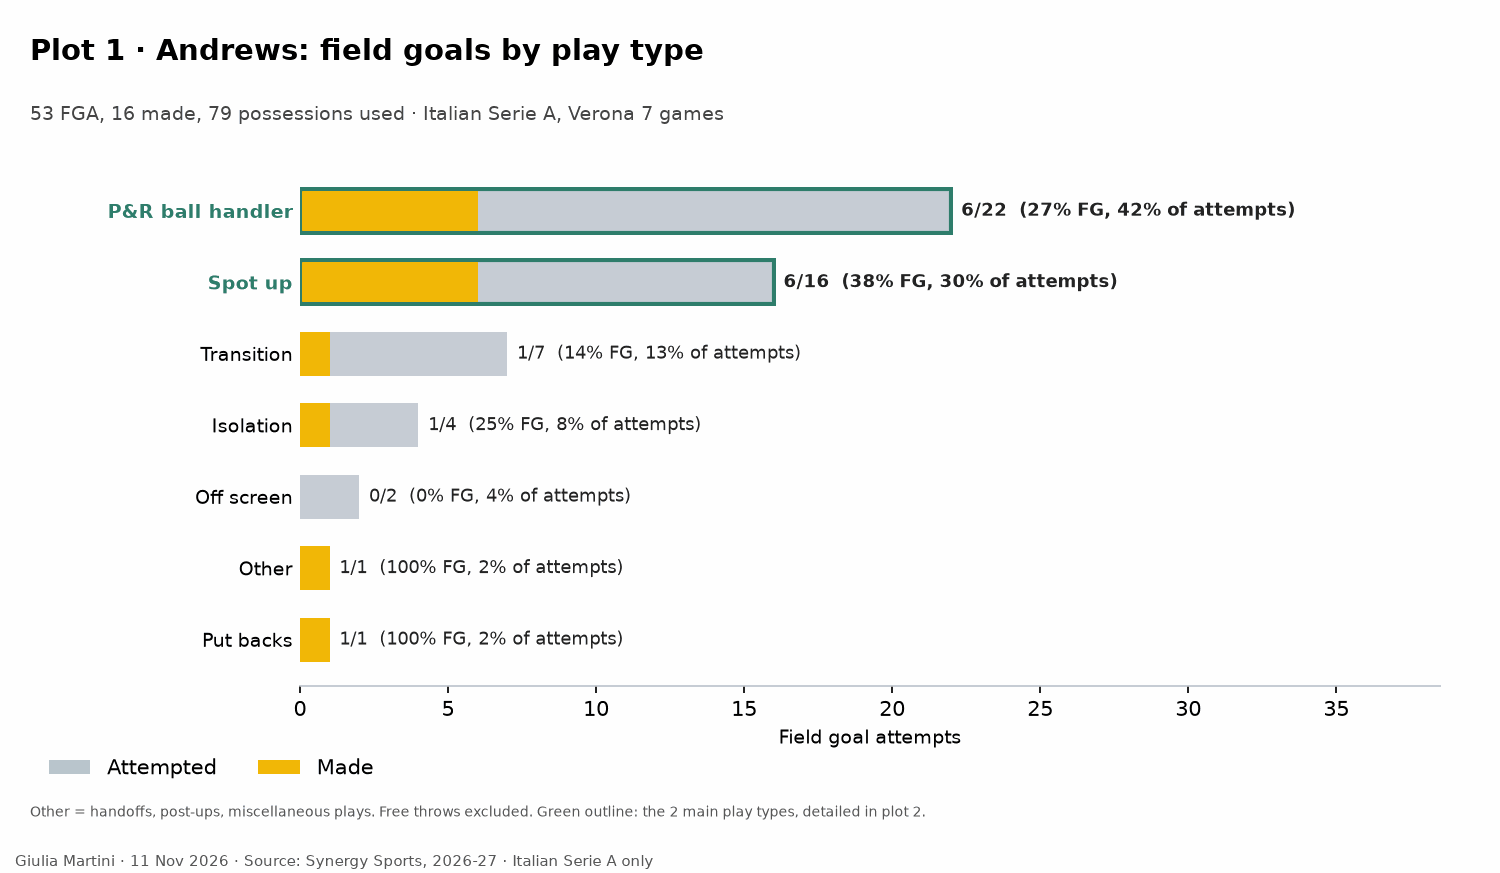
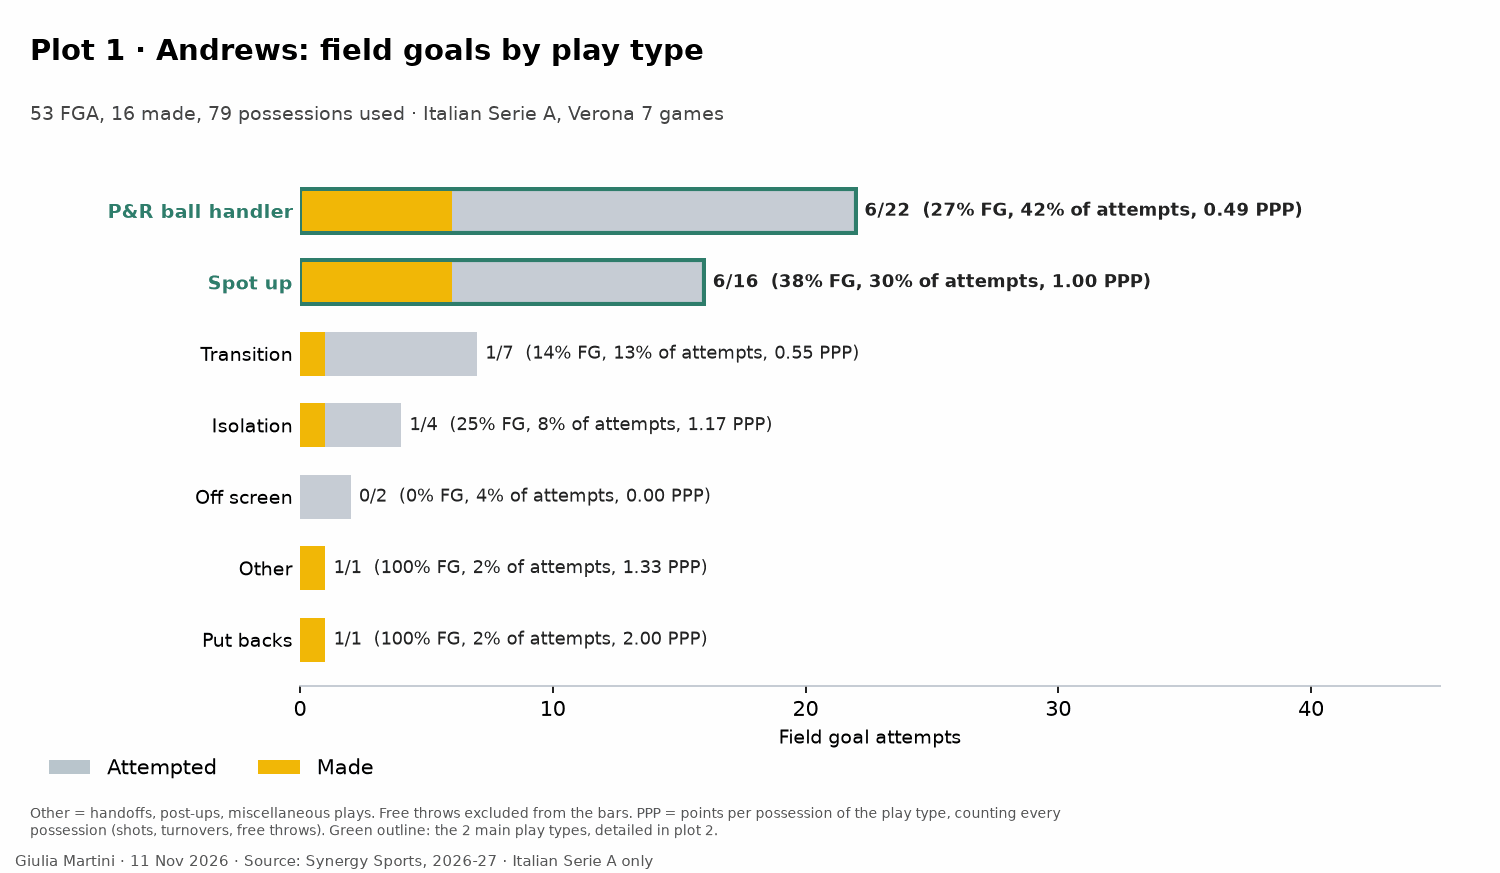
Verona: PPP in the plot 1 labels, energy indices section, methodology for energy indices
- Plot 1 labels end with the points per possession of the play type
- Verona individual tendencies: new Energy section (15_energy_indices.png, rim activity and high pace) with a link to the methodology
- Methodology: new section on the energy indices with dummy-data figures

diff --git a/notebooks/methodology_figures.py b/notebooks/methodology_figures.py
@@ -6,6 +6,8 @@ Writes into weekly/assets/methodology/ (copied to docs/assets by build_site.py):
   triangle_dummy.png     how to read the shot-selection triangles (tendency_triangles.py)
   playtype_dummy.png     how to read plot 1, field goals by play type (synergy_scouting_plots.py, 05_player_*)
   shottype_dummy.png     how to read plot 2, shot types within the main play types (05c_player_*)
+  energy_dummy.png       how to read the energy indices (energy_indices.py)
+  energy_build_dummy.png how a score is built from its components and shrunk by minutes
 """
 from __future__ import annotations
 
@@ -18,6 +20,7 @@ import numpy as np
 import pandas as pd
 
 import synergy_scouting_plots as ssp
+import energy_indices as ei
 import tendency_triangles as tt
 
 plt.rcdefaults()   # lba_style (imported by tendency_triangles) changes the global style: back to the defaults used by the scouting plots
@@ -28,7 +31,7 @@ DUMMY_NOTE = "Invented numbers, only to explain how to read the figure."
 NOTE_KW = dict(fontsize=8, color=ssp.INK_4)
 
 # Dummy player: attempts and makes by play type, and by shot type inside the two main play types
-PLAYTYPES = [("Spot up", 36, 14), ("Pick and roll ball handler", 22, 10), ("Transition", 12, 8), ("Cut", 8, 6), ("Isolation", 5, 2)]
+PLAYTYPES = [("Spot up", 36, 14, .92), ("Pick and roll ball handler", 22, 10, 1.04), ("Transition", 12, 8, 1.31), ("Cut", 8, 6, 1.5), ("Isolation", 5, 2, .78)]
 SHOT_TYPES = {"Spot up": [("Open, 3PT", 18, 8), ("Guarded, 3PT", 10, 2), ("To basket", 8, 4)],
               "Pick and roll ball handler": [("Dribble jumper, 3PT", 9, 3), ("To basket", 8, 5), ("Pull-up, mid-range", 5, 2)]}
 
@@ -65,13 +68,14 @@ def triangle(out: Path) -> None:
 def playtype(out: Path) -> None:
     """Plot 1 with invented numbers and callouts."""
     fig = plt.figure(figsize=(10, 5.2))
-    ax = fig.add_axes([.24, .2, .5, .6])
+    ax = fig.add_axes([.24, .17, .5, .6])
     ssp.draw_playtype_bars(ax, PLAYTYPES, zoom=2)
     fig.text(.02, .94, "Plot 1 · Player X: field goals by play type", fontsize=14, fontweight="bold")
     fig.text(.02, .89, "Dummy player, 83 field-goal attempts", fontsize=9, color=ssp.INK_3)
-    notes = [(.79, .73, "Pale bar = attempts,\nsolid yellow = made"),
-             (.79, .56, "Label: made/attempted, FG%\nand share of the player's\nattempts"),
-             (.79, .36, "Green outline and label: the two\nplay types with most attempts,\nzoomed in plot 2")]
+    notes = [(.79, .74, "Pale bar = attempts,\nsolid yellow = made"),
+             (.79, .60, "Label: made/attempted, FG%\nand share of the player's\nattempts"),
+             (.79, .46, "Diamond (top axis): points per\npossession of the play type,\ndotted line = 1.00"),
+             (.79, .30,"Green outline and label: the two\nplay types with most attempts,\nzoomed in plot 2")]
     for x, y, t in notes:
         fig.text(x, y, t, fontsize=8.5, color=ssp.INK_2, va="center", bbox=dict(boxstyle="round,pad=.4", fc="#F7F7F7", ec="#DDDDDD"))
     fig.text(.02, .04, DUMMY_NOTE + " Rows are sorted by attempts. Free throws are excluded.", **NOTE_KW)
@@ -92,10 +96,46 @@ def shottype(out: Path) -> None:
     fig.savefig(out / "shottype_dummy.png", dpi=150); plt.close(fig)
 
 
+def energy(out: Path) -> None:
+    """The real energy-index figure with invented players."""
+    pl = pd.DataFrame({"player_surname": ["Alpha", "Bravo", "Charlie", "Delta", "Echo", "Foxtrot", "Golf", "Hotel", "India", "Juliet"],
+                       "minutes": [210, 190, 150, 120, 90, 60, 40, 20, 15, 10],
+                       "rim_activity_pct": [.15, .92, .55, .30, .80, .62, .45, .70, .52, .38], "high_pace_pct": [.85, .35, .97, .10, .70, .50, .25, .55, .48, .60]})
+    ei.energy_figure("Dummy team", pl, "dummy", 7, "invented data", note="Invented numbers, only to explain how to read the figure.",
+                     out=out, filename="energy_dummy.png")
+
+
+def energy_build(out: Path) -> None:
+    """How one high-pace score is built (average of z-scores) and how minutes shrink it towards 0."""
+    comps = ["Drive\nfinishes", "Fast-break\nshots, assists", "Fouls\ndrawn", "Steals", "Early shots\n(within 8 s)"]
+    z = np.array([2.1, 1.4, 0.6, -0.3, 1.9])
+    fig, (a, b) = plt.subplots(1, 2, figsize=(11, 4.8), gridspec_kw={"width_ratios": [1.1, 1]})
+    fig.subplots_adjust(left=.12, right=.97, top=.82, bottom=.22, wspace=.35)
+    a.bar(range(len(z)), z, color=ei.MADE, alpha=.8)
+    a.axhline(0, color=ssp.INK_6, lw=.8); a.axhline(z.mean(), color=ei.MISS, lw=1.6, ls="--")
+    a.text(len(z) - .5, z.mean() + .08, f"average = raw score {z.mean():.2f}", ha="right", fontsize=8.5, color=ei.MISS, fontweight="bold")
+    a.set_xticks(range(len(z))); a.set_xticklabels(comps, fontsize=7.5)
+    a.set_ylabel("z-score vs league players (0 = league average)", fontsize=8.5)
+    a.set_title("1. Each component is a z-score; the score is their average", fontsize=10, loc="left")
+    m = np.linspace(0, 600, 300)
+    b.plot(m, m / (m + ei.K_MIN), color=ssp.INK_2, lw=2)
+    for (minutes, name), dx, dy in zip(((20, "20'"), (120, "120'"), (400, "400'")), (80, 70, 20), (-.08, -.15, -.25)):
+        f = minutes / (minutes + ei.K_MIN)
+        b.scatter([minutes], [f], color=ei.MISS, zorder=3)
+        b.annotate(f"{name}: x {f:.2f}\nraw 1.00 -> {f:.2f}", (minutes, f), (minutes + dx, f + dy), fontsize=8, arrowprops=dict(arrowstyle="-", color=ssp.INK_6))
+    b.set_xlabel("minutes played", fontsize=9); b.set_ylabel("weight kept: minutes / (minutes + 120)", fontsize=8.5)
+    b.set_ylim(0, 1.05); b.set_title("2. Few minutes: the score is pulled towards 0", fontsize=10, loc="left")
+    b.grid(color="#e5e7eb", lw=.6)
+    fig.text(.02, .95, "High pace: from components to the score of a player", fontsize=13, fontweight="bold")
+    fig.text(.02, .905, "Rim activity is built the same way (offensive rebounds, blocks, dunks, fouls drawn per 40 minutes).", fontsize=9, color=ssp.INK_3)
+    fig.text(.02, .03, DUMMY_NOTE + " The shrunk score is then turned into the percentile among league players with 40+ minutes.", **NOTE_KW)
+    fig.savefig(out / "energy_build_dummy.png", dpi=150); plt.close(fig)
+
+
 def main() -> None:
-    """Write the three explanatory figures."""
+    """Write the explanatory figures."""
     OUT.mkdir(parents=True, exist_ok=True)
-    triangle(OUT); playtype(OUT); shottype(OUT)
+    triangle(OUT); playtype(OUT); shottype(OUT); energy(OUT); energy_build(OUT)
     print("wrote", OUT)
 
 

diff --git a/notebooks/synergy_scouting_plots.py b/notebooks/synergy_scouting_plots.py
@@ -71,6 +71,7 @@ MIN_PLAYER_POSS = 20        # players shown in the volume-vs-efficiency scatter 
 MIN_RADAR_POSS = 25         # players with a roster-percentile radar (05b)
 MIN_MIX_POSS = 25           # players in the play-type mix bars (06)
 DEEP_POSS_SHARE = 0.80      # plot 2 (05c) is drawn for the fewest players who together use this share of the roster's possessions ...
+OTHER_PLAYTYPES = ('Handoffs', 'Post-Up', 'Miscellaneous Plays')   # Synergy play types that plot 1 groups as 'Other'
 DEEP_PLAYTYPES = 2          # ... and covers this many of their play types (the ones with most attempts)
 DEFAULT_LINEUP_MIN_POSS = 5   # default for config 'lineup_min_poss'
 MIN_STYLE_POSS = 10         # lineups shown in the style profile (09)
@@ -390,12 +391,13 @@ def pt_label(play_type: str) -> str:
     return short[0].upper() + short[1:]
 
 
-def draw_playtype_bars(ax: Axes, rows: Sequence[tuple[str, int, int]], zoom: int = 0) -> None:
-    """Plot 1: made (solid) over attempted (pale) field goals per play type, most attempts on top.
+def draw_playtype_bars(ax: Axes, rows: Sequence[tuple], zoom: int = 0) -> None:
+    """Plot 1: made (solid) over attempted (pale) field goals per play type, most attempts on top, with the points per possession in the label.
 
     Args:
         ax: Axes to draw on.
-        rows: ``(play type label, attempts, made)`` per play type, in any order.
+        rows: ``(play type label, attempts, made)`` or ``(label, attempts, made, points per possession)`` per play type,
+            in any order. The PPP, when given, is written at the end of the label.
         zoom: Number of top play types that plot 2 looks into; their bars get the plot-2 colour edge and a tag.
     """
     d = sorted(rows, key=lambda r: -r[1])
@@ -404,8 +406,10 @@ def draw_playtype_bars(ax: Axes, rows: Sequence[tuple[str, int, int]], zoom: int
     ax.barh(y, [r[1] for r in d], color=NAVY, alpha=.25, height=.62)
     ax.barh(y, [r[2] for r in d], color=YELLOW, height=.62)
     xmax = max((r[1] for r in d), default=1)
-    for i, (yy, (lab, att, made)) in enumerate(zip(y, d)):
-        ax.text(att + xmax * .015, yy, f'{made}/{att}  ({made / att:.0%} FG, {att / total:.0%} of attempts)', va='center',
+    for i, (yy, r) in enumerate(zip(y, d)):
+        att, made = r[1], r[2]
+        ppp = f', {r[3]:.2f} PPP' if len(r) > 3 and r[3] is not None else ''
+        ax.text(att + xmax * .015, yy, f'{made}/{att}  ({made / att:.0%} FG, {att / total:.0%} of attempts{ppp})', va='center',
                 fontsize=8.5, fontweight='bold' if i < zoom else 'normal', color=INK)
         if i < zoom:
             ax.barh(yy, att, height=.62, fill=False, edgecolor=DEEP, linewidth=2)
@@ -414,8 +418,16 @@ def draw_playtype_bars(ax: Axes, rows: Sequence[tuple[str, int, int]], zoom: int
     for i, label in enumerate(ax.get_yticklabels()):
         if i < zoom:
             label.set_color(DEEP); label.set_fontweight('bold')
-    ax.set_xlim(0, xmax * 1.75); ax.set_xlabel('Field goal attempts', fontsize=9)
+    ax.set_xlim(0, xmax * 2.05); ax.set_xlabel('Field goal attempts', fontsize=9)
     ax.spines['left'].set_visible(False); ax.tick_params(axis='y', length=0)
+
+
+def ppp_by_playtype(po: pd.DataFrame, player: str) -> dict[str, float]:
+    """Points per possession of ``player`` by plot-1 play type; handoffs, post-ups and miscellaneous plays are pooled as 'Other'."""
+    d = po[po.player == player].copy()
+    d['play_type'] = d.play_type.where(~d.play_type.isin(OTHER_PLAYTYPES), 'Other')
+    g = d.groupby('play_type')[['poss', 'pts']].sum()
+    return (g.pts / g.poss.where(g.poss > 0)).dropna().to_dict()
 
 
 def draw_shottype_panel(ax: Axes, rows: Sequence[tuple[str, int, int]], title: str) -> None:
@@ -452,6 +464,7 @@ def plot05(c: Ctx, b: pd.DataFrame) -> None:
     # REVIEW: needs Synergy-extracted CSVs (see module docstring); check the data before using the figure.
     zp = c.read('opp_players_fg_by_zone_and_playtype.csv')
     st = c.read('opp_players_shottype_within_playtype.csv')
+    po = c.read('opp_players_playtypes_offense.csv')
     shot: dict[tuple[str, str], list[tuple[str, int, int]]] = {}
     for r in st.itertuples():
         shot.setdefault((r.player, r.play_type), []).append((r.shot_type, int(r.fga), int(r.fgm)))
@@ -468,7 +481,8 @@ def plot05(c: Ctx, b: pd.DataFrame) -> None:
         sub = f"{head} · {c.comp}, {c.opp['name']} {c.opp['games']} games"
         fname = p.lower().replace(' ', '_')
         zoom = DEEP_PLAYTYPES if p in deep_players else 0
-        rows = [(pt_label(r.category), int(r.fga), int(r.fgm)) for r in pt.itertuples()]
+        ppp = ppp_by_playtype(po, p)
+        rows = [(pt_label(r.category), int(r.fga), int(r.fgm), ppp.get(r.category)) for r in pt.itertuples()]
 
         height = .46 * len(rows) + 2.6
         fig = plt.figure(figsize=(10, height))
@@ -478,9 +492,10 @@ def plot05(c: Ctx, b: pd.DataFrame) -> None:
         fig.text(.02, 1 - .8 / height, sub, fontsize=9, color=INK_3)
         fig.legend(handles=[Patch(fc=NAVY, alpha=.3, label='Attempted'), Patch(fc=YELLOW, alpha=.9, label='Made')],
                    loc='lower left', ncol=2, frameon=False, bbox_to_anchor=(.02, .5 / height))
-        note = ('Other = handoffs, post-ups, miscellaneous plays. Free throws excluded.'
+        note = ('Other = handoffs, post-ups, miscellaneous plays. Free throws excluded from the bars. PPP = points per possession of the '
+                'play type, counting every possession (shots, turnovers, free throws).'
                 + (f' Green outline: the {zoom} main play types, detailed in plot 2.' if zoom else ''))
-        fig.text(.02, .45 / height, note, fontsize=6.8, color=INK_4, va='top')
+        fig.text(.02, .45 / height, textwrap.fill(note, width=150), fontsize=6.8, color=INK_4, va='top')
         c.foot(fig, f'{c.comp} only')
         c.save(fig, f'05_player_{fname}_shot_profile.png', dpi=150)
 

diff --git a/weekly/pages/methodology.md b/weekly/pages/methodology.md
@@ -72,7 +72,7 @@ may differ slightly). An LBA table is never shown for a EuroCup game.
 
 ## Reading the shot-selection triangles and the play-type plots
 
-These three figures are on the *Individual tendencies* page of every analysis. The pictures below use invented numbers; they are drawn
+These figures are on the *Individual tendencies* page of every analysis. The pictures below use invented numbers; they are drawn
 by `notebooks/methodology_figures.py` with the same functions as the real figures.
 
 ### Shot-selection triangle
@@ -90,7 +90,9 @@ or more; a player needs three games with three attempts or more.
 
 One figure per player, from Synergy. Each bar is a play type (spot up, pick and roll, transition, ...), sorted by attempts: the pale bar
 is the attempts, the yellow bar the made field goals. The label gives made/attempted, FG% and the share of the player's attempts.
-Free throws are excluded; *Other* collects handoffs, post-ups and miscellaneous plays. The two play types with most attempts have a
+The label ends with the points per possession (PPP) of that play type: points divided by all its possessions, which end in a shot,
+a turnover or free throws, so it is not the same as the FG% of the bar (*Other* pools handoffs, post-ups and miscellaneous plays).
+Free throws are excluded from the bars; *Other* collects handoffs, post-ups and miscellaneous plays. The two play types with most attempts have a
 green outline and a green name: they are the ones detailed in plot 2.
 
 ![How to read plot 1 (invented data)](../assets/methodology/playtype_dummy.png)
@@ -106,6 +108,25 @@ play types with the green outline in plot 1. Each bar is a Synergy shot type (op
 
 Both plots rest on small samples (a handful of games) and on tables extracted by hand from Synergy: read them as descriptive, not as
 a forecast.
+
+## Energy indices: rim activity and high pace
+
+Two scores per player, built from the box score and the play-by-play only (no judgement of the playing style), on the *Individual
+tendencies* page under "Energy". The pictures use invented numbers; they are drawn by `notebooks/methodology_figures.py`.
+
+- **Rim activity**: offensive rebounds, blocks, dunks and fouls drawn, each per 40 minutes.
+- **High pace**: drive finishes (shots tagged "Da penetrazione" or "Tiro in corsa"), fast-break shots and assists ("contropiede"), fouls
+  drawn and steals per 40 minutes, plus the share of the player's field-goal attempts taken within 8 seconds of the possession start.
+  Fouls drawn count in both scores, on purpose.
+- **How a score is built**: each component is turned into a z-score against all league players with at least 40 minutes (how many
+  standard deviations above or below the league average, clipped at +-3); the z-scores of a score are averaged; the average is then
+  multiplied by minutes / (minutes + 120), so a player with few minutes is pulled towards 0 and a lucky short stint does not top the list.
+- **What the figure shows**: the percentile of the shrunk score among league players (0.5 = league median). Players are sorted by minutes
+  played. For a EuroCup opponent the drives and fast-break shots come from the Synergy pull and are scaled on the LBA players.
+
+![How to read the energy indices (invented data)](../assets/methodology/energy_dummy.png)
+
+![How a high-pace score is built (invented data)](../assets/methodology/energy_build_dummy.png)
 
 ## Page status flags
 

diff --git a/weekly/games/2026-11-14/individual_tendencies.md b/weekly/games/2026-11-14/individual_tendencies.md
@@ -96,6 +96,20 @@ Zone shot charts, then for each player plot 1 (field goals by play type) and, fo
 
 {{ figure: 05_player_barbitch_shot_profile }}
 
+## Energy: rim activity and pace
+
+Two scores per player, as league percentiles (0.5 = league median): ==rim activity== and ==high pace==. [How the scores are built](../../methodology/#energy-indices-rim-activity-and-high-pace).
+
+- **Massinburg has the highest pace of the roster** (0.90): 12 drive finishes and 8 steals in 112', rim activity only 0.26. **Zampini** (0.77, 12 drive finishes and 30 fouls drawn in 206') and **Melendez** (0.75) follow.
+- **Melendez and Tobey carry the rim activity** (0.97 and 0.95): 7 blocks and 8 dunks in 141' for Melendez, 31 offensive rebounds and 8 dunks in 188' for Tobey.
+- **Loro, Ambrosin and Andrews have the lowest pace** (0.04, 0.04, 0.09): Loro has 1 drive finish in 186', Ambrosin and Andrews no fast-break shot.
+
+<!-- more -->
+
+Built from box score and play-by-play only, shrunk towards the median for players with few minutes. ==Rim activity==: offensive rebounds, blocks, dunks and fouls drawn per 40 minutes. ==High pace==: drive finishes, fast-break shots and assists, fouls drawn, steals per 40 minutes and the share of shots taken within 8 s of the possession start. LBA, 7 games, players sorted by minutes played; the reference is every LBA player with at least 40 minutes. [Method](../../methodology/#energy-indices-rim-activity-and-high-pace).
+
+{{ figure: 15_energy_indices }}
+
 ## Rotation by player
 
 When each player is on the court in each quarter, in the competition, as in the analysis page's rotation by minute. One bar per quarter, the clock runs from 10:00 down to 0:00, dark green = on the court in every game at that moment, white = in none.
